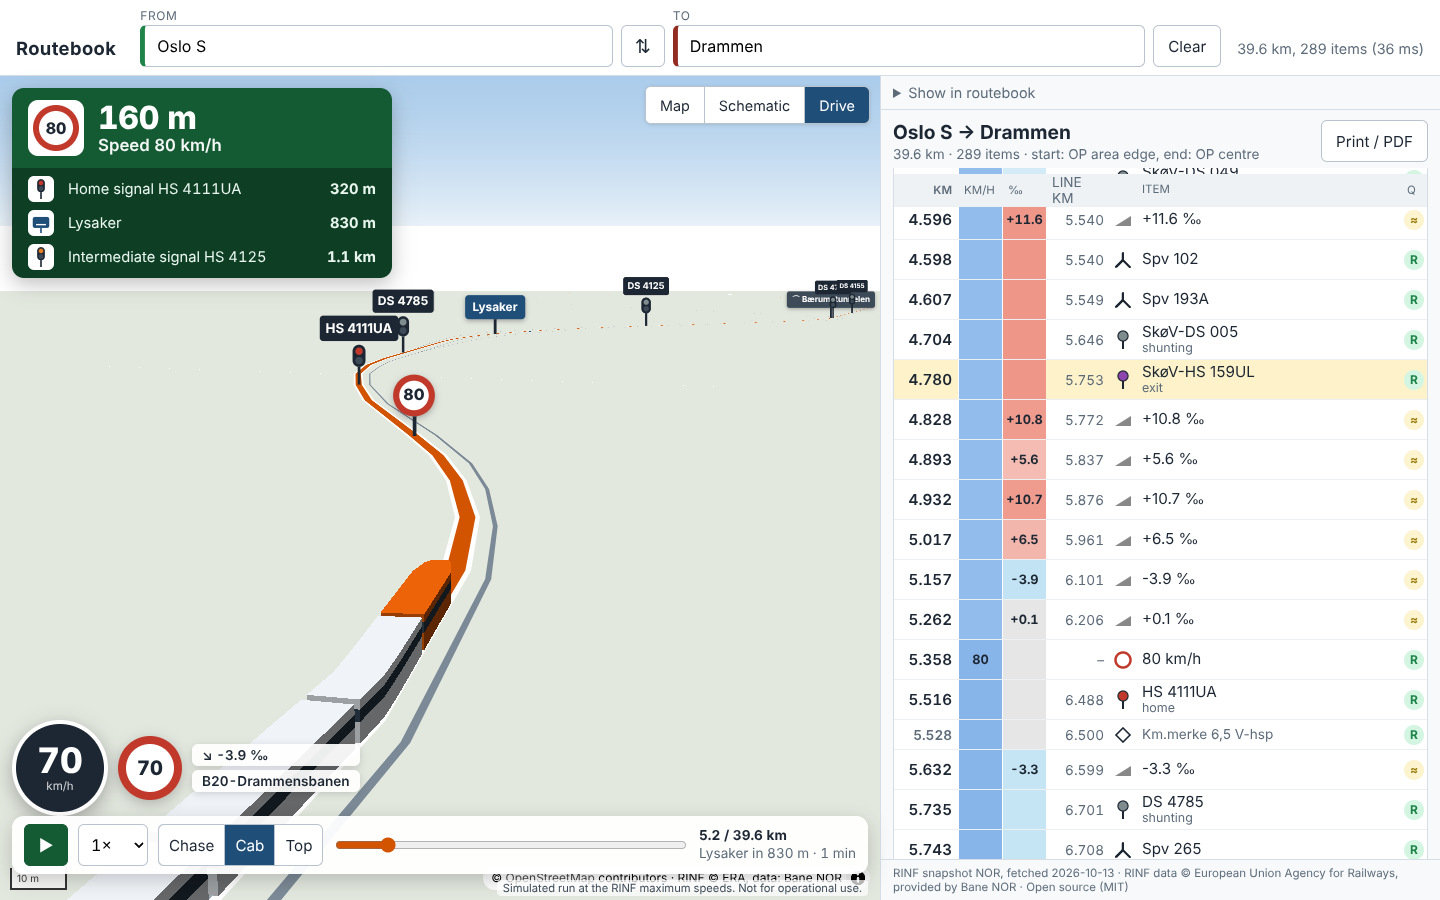
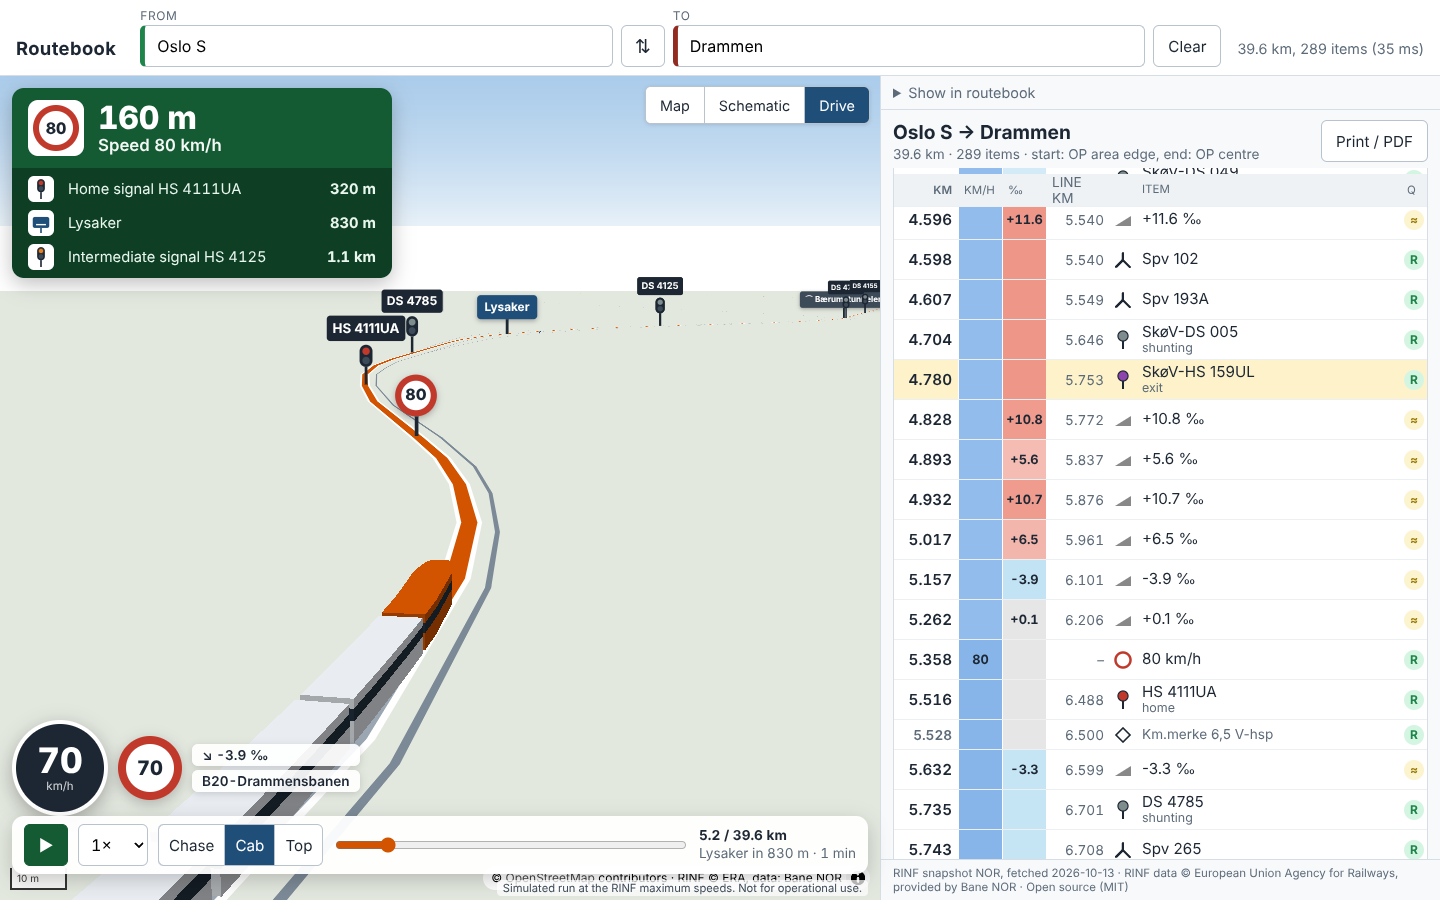
fix(drive): smooth playback
Draw the train in a WebGL custom layer, in the same frame as the camera
move; the GeoJSON fill-extrusion went through the worker and lagged the
camera, so the train shook on screen. Train and camera follow the route
with rounded corners, so they no longer snap at the kinks of the
simplified geometry.

diff --git a/apps/web/src/train-layer.ts b/apps/web/src/train-layer.ts
@@ -1,0 +1,167 @@
+import maplibregl, { type CustomLayerInterface, type CustomRenderMethodInput, type Map as MapLibreMap } from "maplibre-gl";
+import type { TrainPart } from "./drive.js";
+
+/**
+ * The Drive view's train as a WebGL custom layer. A GeoJSON fill-extrusion
+ * is updated through a web worker, so it lags the camera by a frame or more
+ * and the train shakes on screen; a custom layer draws the footprints given
+ * in the same frame as the camera move.
+ *
+ * Vertices are kept relative to an origin near the train (in float64 on the
+ * CPU, folded into the matrix), because float32 Mercator coordinates only
+ * resolve about 2 m, which is half the width of the train. MapLibre's
+ * modelViewProjectionMatrix takes x and y in world pixels and z in metres.
+ */
+
+const VERTEX = `
+attribute vec3 a_pos;
+attribute vec3 a_color;
+uniform mat4 u_matrix;
+varying vec3 v_color;
+void main() {
+  v_color = a_color;
+  gl_Position = u_matrix * vec4(a_pos, 1.0);
+}`;
+
+const FRAGMENT = `
+precision mediump float;
+varying vec3 v_color;
+void main() {
+  gl_FragColor = vec4(v_color, 1.0);
+}`;
+
+/** light from the north-west and above, like the map's fill-extrusions */
+const LIGHT = normalize([-0.5, 0.6, 0.62]);
+
+function normalize(v: number[]): [number, number, number] {
+  const l = Math.hypot(v[0]!, v[1]!, v[2]!) || 1;
+  return [v[0]! / l, v[1]! / l, v[2]! / l];
+}
+
+function rgb(hex: string): [number, number, number] {
+  const n = parseInt(hex.slice(1), 16);
+  return [((n >> 16) & 255) / 255, ((n >> 8) & 255) / 255, (n & 255) / 255];
+}
+
+export class TrainLayer implements CustomLayerInterface {
+  readonly id: string;
+  readonly type = "custom" as const;
+  readonly renderingMode = "3d" as const;
+  private map: MapLibreMap | undefined;
+  private program: WebGLProgram | undefined;
+  private buffer: WebGLBuffer | null = null;
+  private count = 0;
+  private dirty = false;
+  private data = new Float32Array(0);
+  private origin: [number, number] = [0, 0];
+  private readonly matrix = new Float64Array(16);
+  visible = true;
+
+  constructor(id: string) {
+    this.id = id;
+  }
+
+  onAdd(map: MapLibreMap, gl: WebGLRenderingContext | WebGL2RenderingContext): void {
+    this.map = map;
+    const compile = (type: number, src: string) => {
+      const s = gl.createShader(type)!;
+      gl.shaderSource(s, src);
+      gl.compileShader(s);
+      return s;
+    };
+    const p = gl.createProgram()!;
+    gl.attachShader(p, compile(gl.VERTEX_SHADER, VERTEX));
+    gl.attachShader(p, compile(gl.FRAGMENT_SHADER, FRAGMENT));
+    gl.linkProgram(p);
+    this.program = p;
+    this.buffer = gl.createBuffer();
+  }
+
+  onRemove(_map: MapLibreMap, gl: WebGLRenderingContext | WebGL2RenderingContext): void {
+    if (this.buffer) gl.deleteBuffer(this.buffer);
+    if (this.program) gl.deleteProgram(this.program);
+  }
+
+  /** Replace the train. Call before moving the camera in the same frame. */
+  setParts(parts: TrainPart[]): void {
+    const first = parts[0]?.ring[0];
+    if (!first) {
+      this.count = 0;
+      this.map?.triggerRepaint();
+      return;
+    }
+    const o = maplibregl.MercatorCoordinate.fromLngLat(first, 0);
+    this.origin = [o.x, o.y];
+    const out: number[] = [];
+    for (const part of parts) {
+      const pts = part.ring.slice(0, -1).map((c) => {
+        const m = maplibregl.MercatorCoordinate.fromLngLat(c, 0);
+        return [m.x - o.x, m.y - o.y] as const;
+      });
+      const zb = part.base, zt = part.height;
+      const base = rgb(part.color);
+      const push = (p: readonly [number, number], z: number, c: readonly number[]) => out.push(p[0], p[1], z, c[0]!, c[1]!, c[2]!);
+      const shade = (nx: number, ny: number, nz: number) => {
+        const k = 0.55 + 0.45 * Math.max(0, nx * LIGHT[0] + ny * LIGHT[1] + nz * LIGHT[2]);
+        return base.map((v) => v * k);
+      };
+      // sides: one quad per ring edge, shaded by its outward normal (mercator y points south)
+      for (let i = 0; i < pts.length; i++) {
+        const a = pts[i]!, b = pts[(i + 1) % pts.length]!;
+        const dx = b[0] - a[0], dy = -(b[1] - a[1]);
+        const len = Math.hypot(dx, dy) || 1;
+        // the ring runs clockwise seen from above, so the outward normal is (−dy, dx)
+        const c = shade(-dy / len, dx / len, 0);
+        push(a, zb, c); push(b, zb, c); push(b, zt, c);
+        push(a, zb, c); push(b, zt, c); push(a, zt, c);
+      }
+      // top: the ring is a strip of left points, then the right points backwards
+      const top = base;
+      const n = pts.length;
+      for (let i = 0; i < n / 2 - 1; i++) {
+        const l0 = pts[i]!, l1 = pts[i + 1]!, r0 = pts[n - 1 - i]!, r1 = pts[n - 2 - i]!;
+        push(l0, zt, top); push(l1, zt, top); push(r1, zt, top);
+        push(l0, zt, top); push(r1, zt, top); push(r0, zt, top);
+      }
+    }
+    this.data = new Float32Array(out);
+    this.count = out.length / 6;
+    this.dirty = true;
+    this.map?.triggerRepaint();
+  }
+
+  render(gl: WebGLRenderingContext | WebGL2RenderingContext, options: CustomRenderMethodInput): void {
+    if (!this.visible || this.count === 0 || !this.program) return;
+    gl.useProgram(this.program);
+    gl.bindBuffer(gl.ARRAY_BUFFER, this.buffer);
+    if (this.dirty) {
+      gl.bufferData(gl.ARRAY_BUFFER, this.data, gl.DYNAMIC_DRAW);
+      this.dirty = false;
+    }
+    // matrix · translate(origin · worldSize) · scale(worldSize, worldSize, 1), in float64
+    const m = options.modelViewProjectionMatrix as unknown as ArrayLike<number>;
+    const ws = 512 * 2 ** this.map!.getZoom();
+    const [ox, oy] = this.origin;
+    for (let r = 0; r < 4; r++) {
+      this.matrix[r] = m[r]! * ws;
+      this.matrix[4 + r] = m[4 + r]! * ws;
+      this.matrix[8 + r] = m[8 + r]!;
+      this.matrix[12 + r] = m[r]! * ws * ox + m[4 + r]! * ws * oy + m[12 + r]!;
+    }
+    gl.uniformMatrix4fv(gl.getUniformLocation(this.program, "u_matrix"), false, new Float32Array(this.matrix));
+    const pos = gl.getAttribLocation(this.program, "a_pos");
+    const col = gl.getAttribLocation(this.program, "a_color");
+    gl.enableVertexAttribArray(pos);
+    gl.enableVertexAttribArray(col);
+    gl.vertexAttribPointer(pos, 3, gl.FLOAT, false, 24, 0);
+    gl.vertexAttribPointer(col, 3, gl.FLOAT, false, 24, 12);
+    gl.enable(gl.DEPTH_TEST);
+    gl.depthFunc(gl.LEQUAL);
+    gl.depthMask(true);
+    gl.disable(gl.CULL_FACE);
+    gl.disable(gl.BLEND);
+    gl.drawArrays(gl.TRIANGLES, 0, this.count);
+    gl.disableVertexAttribArray(pos);
+    gl.disableVertexAttribArray(col);
+  }
+}

diff --git a/apps/web/src/drive.ts b/apps/web/src/drive.ts
@@ -38,23 +38,54 @@ export interface Along {
   progress(d: number): number;
 }
 
+/**
+ * Round the corners of a line: each inner vertex is replaced by two points
+ * up to `cut` metres before and after it, a few times over. Simplified RINF
+ * geometry turns in sharp kinks; a train running through them would jerk.
+ */
+export function roundCorners(coords: LngLat[], cut = 20, passes = 3): LngLat[] {
+  let line = coords;
+  for (let pass = 0; pass < passes; pass++) {
+    if (line.length < 3) return line;
+    const out: LngLat[] = [line[0]!];
+    for (let i = 1; i < line.length - 1; i++) {
+      const p = line[i - 1]!, c = line[i]!, n = line[i + 1]!;
+      const lp = metres(p, c), ln = metres(c, n);
+      const tp = lp > 0 ? Math.min(0.4, cut / lp) : 0;
+      const tn = ln > 0 ? Math.min(0.4, cut / ln) : 0;
+      out.push([c[0] + (p[0] - c[0]) * tp, c[1] + (p[1] - c[1]) * tp], [c[0] + (n[0] - c[0]) * tn, c[1] + (n[1] - c[1]) * tn]);
+    }
+    out.push(line.at(-1)!);
+    line = out;
+    cut /= 2;
+  }
+  return line;
+}
+
 export function along(rg: RouteGeometry): Along {
-  const steps = rg.steps.map((s) => {
-    const cum = [0];
-    for (let i = 1; i < s.coords.length; i++) cum.push(cum[i - 1]! + metres(s.coords[i - 1]!, s.coords[i]!));
-    return { ...s, cum };
-  });
-  // geometric offset of each step on the merged line
-  const geoStart: number[] = [];
+  // route distance -> distance along the drawn (unrounded) line, per step
+  const steps: Array<{ start: number; end: number; g0: number; g1: number }> = [];
+  const merged: LngLat[] = [];
   let geo = 0;
-  for (const s of steps) {
-    geoStart.push(geo);
-    geo += s.cum.at(-1)!;
+  for (const s of rg.steps) {
+    let len = 0;
+    for (let i = 1; i < s.coords.length; i++) len += metres(s.coords[i - 1]!, s.coords[i]!);
+    steps.push({ start: s.start, end: s.end, g0: geo, g1: geo + len });
+    geo += len;
+    for (const c of s.coords) {
+      const last = merged.at(-1);
+      if (!last || last[0] !== c[0] || last[1] !== c[1]) merged.push(c);
+    }
   }
   const length = steps.at(-1)?.end ?? 0;
+  const line = roundCorners(merged);
+  const cum = [0];
+  for (let i = 1; i < line.length; i++) cum.push(cum[i - 1]! + metres(line[i - 1]!, line[i]!));
+  const total = cum.at(-1) ?? 0;
 
-  /** step index and geometric distance inside it for route distance d */
-  const locate = (d: number): { i: number; g: number } => {
+  /** share (0..1) of the line before route distance d */
+  const share = (d: number): number => {
+    if (steps.length === 0 || geo <= 0) return 0;
     let lo = 0, hi = steps.length - 1;
     while (lo < hi) {
       const mid = (lo + hi + 1) >> 1;
@@ -63,18 +94,21 @@ export function along(rg: RouteGeometry): Along {
     }
     const s = steps[lo]!;
     const frac = s.end > s.start ? Math.max(0, Math.min(1, (d - s.start) / (s.end - s.start))) : 0;
-    return { i: lo, g: frac * s.cum.at(-1)! };
+    return (s.g0 + frac * (s.g1 - s.g0)) / geo;
   };
 
   const point = (d: number): LngLat => {
-    if (steps.length === 0) return [0, 0];
-    const { i, g } = locate(d);
-    const { coords, cum } = steps[i]!;
-    if (coords.length === 1) return coords[0]!;
-    let k = 1;
-    while (k < cum.length - 1 && cum[k]! < g) k++;
-    const a = coords[k - 1]!, b = coords[k]!;
-    const t = (g - cum[k - 1]!) / (cum[k]! - cum[k - 1]! || 1);
+    if (line.length === 0) return [0, 0];
+    if (line.length === 1) return line[0]!;
+    const g = share(d) * total;
+    let lo = 1, hi = cum.length - 1;
+    while (lo < hi) {
+      const mid = (lo + hi) >> 1;
+      if (cum[mid]! < g) lo = mid + 1;
+      else hi = mid;
+    }
+    const a = line[lo - 1]!, b = line[lo]!;
+    const t = (g - cum[lo - 1]!) / (cum[lo]! - cum[lo - 1]! || 1);
     return [a[0] + (b[0] - a[0]) * t, a[1] + (b[1] - a[1]) * t];
   };
 
@@ -86,11 +120,7 @@ export function along(rg: RouteGeometry): Along {
       const b = Math.min(length, Math.max(a + 1, d + ahead));
       return bearing(point(a), point(b));
     },
-    progress(d) {
-      if (geo <= 0) return 0;
-      const { i, g } = locate(d);
-      return Math.max(0, Math.min(1, (geoStart[i]! + g) / geo));
-    },
+    progress: (d) => Math.max(0, Math.min(1, share(d))),
   };
 }
 
@@ -330,7 +360,8 @@ export function trainParts(a: Along, d: number, style: TrainStyle = DEFAULT_TRAI
   const half = style.width / 2;
   const at = (s: number, side: number): LngLat => {
     const c = a.point(Math.max(0, s));
-    const h = a.heading(s, 3, 3) * DEG;
+    // over ±8 m, so the sides turn gradually where the simplified geometry has a corner
+    const h = a.heading(s, 8, 8) * DEG;
     // left of the direction of travel is (−cos, +sin) in (east, north)
     return offset(c, -Math.cos(h) * side, Math.sin(h) * side);
   };

diff --git a/apps/web/src/drive-view.ts b/apps/web/src/drive-view.ts
@@ -2,6 +2,7 @@ import maplibregl, { type GeoJSONSource, type Map as MapLibreMap } from "maplibr
 import type { Routebook, RoutebookItem } from "@routebook/routebook";
 import type { RouteResult } from "./engine.js";
 import type { LngLat } from "./geometry.js";
+import { TrainLayer } from "./train-layer.js";
 import {
   along,
   angleDiff,
@@ -89,6 +90,7 @@ export class DriveView {
   private passed: number | undefined;
   private readonly markers = new Map<number, maplibregl.Marker>();
   private layersReady = false;
+  private readonly train = new TrainLayer("drive-train");
   private saved: { background?: unknown } = {};
   private reportedAt = -Infinity;
 
@@ -204,7 +206,7 @@ export class DriveView {
     this.run = undefined;
     this.passed = undefined;
     this.clearMarkers();
-    (this.map.getSource("drive-train") as GeoJSONSource | undefined)?.setData(emptyFc);
+    this.train.setParts([]);
   }
 
   private ensureLayers(): void {
@@ -241,18 +243,7 @@ export class DriveView {
         "line-gradient": this.routeGradient(0),
       },
     });
-    m.addSource("drive-train", { type: "geojson", data: emptyFc });
-    m.addLayer({
-      id: "drive-train",
-      type: "fill-extrusion",
-      source: "drive-train",
-      paint: {
-        "fill-extrusion-color": ["get", "color"],
-        "fill-extrusion-base": ["get", "base"],
-        "fill-extrusion-height": ["get", "height"],
-        "fill-extrusion-opacity": 1,
-      },
-    });
+    m.addLayer(this.train);
     m.setSky({ "sky-color": "#9fc5e8", "horizon-color": "#e8f1f8", "fog-color": "#e3e8df", "sky-horizon-blend": 0.6, "horizon-fog-blend": 0.7, "fog-ground-blend": 0.92, "atmosphere-blend": 0.6 });
   }
 
@@ -400,13 +391,9 @@ export class DriveView {
     else this.camBearing = (this.camBearing + angleDiff(this.camBearing, target) * (1 - Math.exp(-dt / 0.45)) + 360) % 360;
     const zoom = cam.zoom - cam.speedZoom * Math.min(1, sim.v / 55) + this.zoomBias;
     const h = m.getContainer().clientHeight;
+    // train and camera change in the same frame, so the train stands still on screen
+    this.train.setParts(trainParts(a, d));
     m.jumpTo({ center: a.point(d), bearing: this.camBearing, pitch: cam.pitch, zoom, padding: { top: h * cam.padTop, bottom: 0, left: 0, right: 0 } });
-
-    const parts = trainParts(a, d);
-    (m.getSource("drive-train") as GeoJSONSource).setData({
-      type: "FeatureCollection",
-      features: parts.map((p) => ({ type: "Feature", geometry: { type: "Polygon", coordinates: [p.ring] }, properties: { base: p.base, height: p.height, color: p.color } })),
-    });
 
     // speed cluster, every frame
     const kmh = Math.round(sim.v * 3.6);

diff --git a/apps/web/test/drive.test.ts b/apps/web/test/drive.test.ts
@@ -1,7 +1,7 @@
 import { describe, expect, it } from "vitest";
 import type { Routebook, RoutebookItem } from "@routebook/routebook";
 import type { RouteGeometry } from "../src/geometry.js";
-import { along, angleDiff, cuesAhead, formatDistance, nextStop, runningTime, speedProfile, trainParts, tunnelAt, TrainSim } from "../src/drive.js";
+import { along, angleDiff, bearing, cuesAhead, roundCorners, formatDistance, nextStop, runningTime, speedProfile, trainParts, tunnelAt, TrainSim } from "../src/drive.js";
 
 // a 2 km line due north, then 1 km due east (about 60°N)
 const north = 2000 / 110_574;
@@ -37,7 +37,8 @@ describe("drive geometry", () => {
   const a = along(geometry);
   it("follows the route and its heading", () => {
     expect(a.length).toBe(3000);
-    expect(a.point(1000)[1]).toBeCloseTo(60 + north / 2, 6);
+    // within a few metres: the rounded corner makes the line slightly shorter
+    expect(Math.abs(a.point(1000)[1] - (60 + north / 2)) * 110_574).toBeLessThan(10);
     expect(a.heading(1000)).toBeCloseTo(0, 0);
     expect(a.heading(2500)).toBeCloseTo(90, 0);
     expect(a.progress(1500)).toBeCloseTo(0.5, 2);
@@ -96,5 +97,21 @@ describe("drive cues", () => {
     expect(formatDistance(123)).toBe("120 m");
     expect(formatDistance(1234)).toBe("1.2 km");
     expect(formatDistance(23_400)).toBe("23 km");
+  });
+});
+
+describe("drive smoothing", () => {
+  it("rounds a right-angle corner without moving the ends", () => {
+    const line = roundCorners([[10, 60], [10, 60 + north], [10 + east, 60 + north]]);
+    expect(line[0]).toEqual([10, 60]);
+    expect(line.at(-1)).toEqual([10 + east, 60 + north]);
+    expect(line.length).toBeGreaterThan(5);
+    // the corner itself is cut: no point is at the original vertex
+    expect(line.some((p) => p[0] === 10 && p[1] === 60 + north)).toBe(false);
+    // and the heading turns gradually: no step of more than 30° between segments
+    for (let i = 2; i < line.length; i++) {
+      const turn = Math.abs(angleDiff(bearing(line[i - 2]!, line[i - 1]!), bearing(line[i - 1]!, line[i]!)));
+      expect(turn).toBeLessThan(30);
+    }
   });
 });
